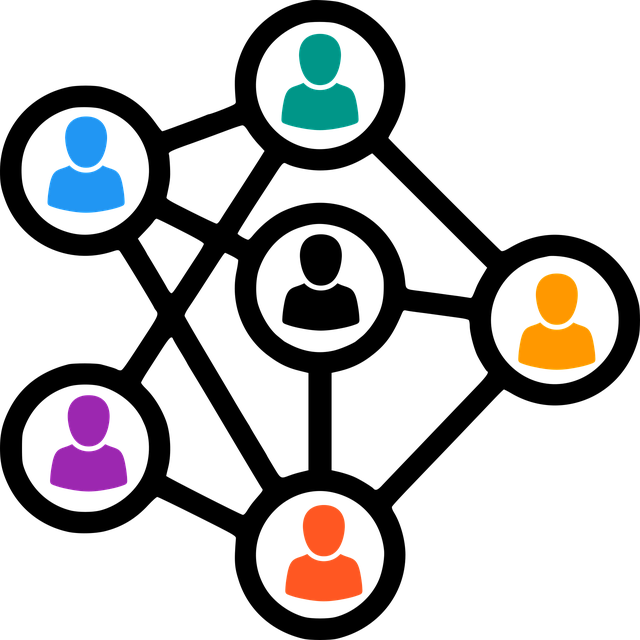
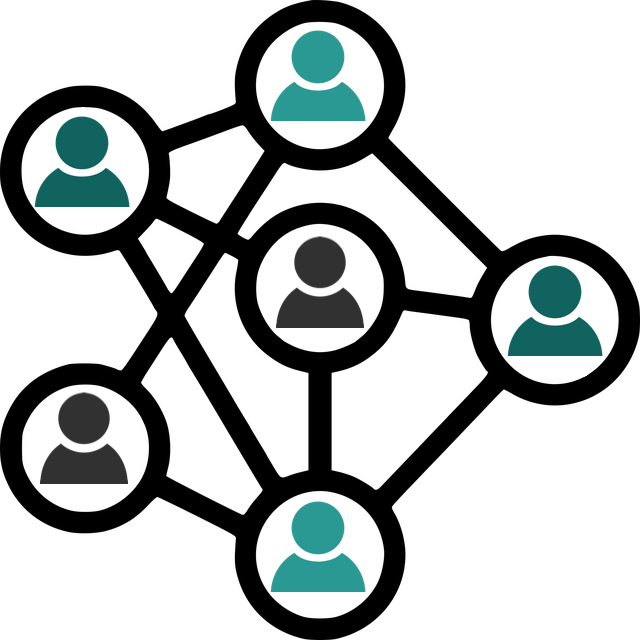
v2.01 (Some small screen optimisation, department and location graphics changed, minor bug fixes)

diff --git a/resources/js/script.js b/resources/js/script.js
@@ -341,7 +341,6 @@ function addLocation(name,departments){
         dataType: 'JSON',
         success: function(result){
             let ready = true;
-            console.log(result);
             if (result.data.length > 0){
                 $("#new-location-required-name").html("Location name already in use");
                 ready = false;
@@ -355,7 +354,6 @@ function addLocation(name,departments){
                     },
                     dataType: 'JSON',
                     success: function(result){
-                        console.log(result);
                         let id = result.data[0].id;
                         departments.forEach(dept=>{
                             updateDepartmentById(dept,null,id)
@@ -365,13 +363,16 @@ function addLocation(name,departments){
                         getAllFiltered();
                         getLocationInfo();
                         getDeptsFiltered();
-                        $("#new-location-modal").modal('hide');
-                        updateLocationModal(id);
-                        $(".updated").css("display","none");
-                        $(".info").css("display","block");
-                        $(".form").css("display","none");
-                        addCheckbox("options-departments");
-                        addLocationsCheckbox("options-locations");
+                        setTimeout(()=>{
+                            $("#new-location-modal").modal('hide');
+                            updateLocationModal(id);
+                            $(".updated").css("display","none");
+                            $(".info").css("display","block");
+                            $(".form").css("display","none");
+                            addCheckbox("options-departments");
+                            addLocationsCheckbox("options-locations");
+                        },500);
+                        
                         
                        
                     },
@@ -397,7 +398,6 @@ function addDepartment(name,locationId){
         },
         dataType: 'JSON',
         success: function(result){
-            console.log(result);
             let ready = true;
             if (result.data.length > 0){
                 $("#new-department-required-name").html("Department name already in use");
@@ -415,7 +415,7 @@ function addDepartment(name,locationId){
                     success: function(result){
                         let id = result.data[0].id;
                         data.setCurrentDepartmentId(id);
-                        getDepartmentFiltered();
+                        getDeptsFiltered();
                         $("#new-department-modal").modal('hide');
                         updateDepartmentModal(id);
                         updateDepartmentPlaceholders(id);
@@ -451,7 +451,6 @@ function addPersonnel(first,last,email,department){
         },
         dataType: 'JSON',
         success: function(result){
-            console.log("email check",result);
             if (result.data.length > 0){
                 $("#new-employee-required-email").html("Email address already in database");
                 ready = false;
@@ -493,9 +492,7 @@ function addPersonnel(first,last,email,department){
 // UPDATE entries in database
 
 function updateLocationById(id, name, departmentIds){
-    console.log(departmentIds)
     departmentIds.forEach(deptId=>{
-        console.log(deptId);
         updateDepartmentById(deptId,null,id);
     })
     $.ajax({
@@ -534,7 +531,6 @@ function updateDepartmentById(id, name=null, locationId){
         },
         dataType: 'JSON',
         success: function(result){
-            console.log(result);
             if(name){
                 updateDepartmentModal(id);
                 updateAllTables();
@@ -747,46 +743,6 @@ function updateLocationPlaceholders(name,id){
     $("#location-form-name").val(name); 
     addCheckbox("location-form-depts",id)
 }
-    function updateFormPlaceholders(object){
-        if (object instanceof Employee){
-            let employee = object;
-            $("#employee-form-name").val(employee.getFirst());
-            $("#employee-form-surname").val(employee.getLast());
-            $("#employee-form-email").val(employee.getEmail());
-            $("#employee-form-dept").val(employee.getDeptId());
-            $("#employee-form-loc").html(employee.getLocation());
-            $("#new-employee-required-email").html('');
-            $("#new-employee-required-first").html('');
-            $("#new-employee-required-last").html('');
-            $("#new-employee-required-dept").html('');
-            $("#update-employee-required-email").html('');
-            $("#update-employee-required-first").html('');
-            $("#update-employee-required-last").html('');
-            $("#update-employee-required-dept").html('');
-        } else if (object instanceof Department){
-            let department = object;
-            $("#update-department-required-location").html("");
-            $("#update-department-required-name").html("");
-            $("#department-form-name").val(department.getName());
-            $("#department-form-loc").val(department.getLocationId());
-    
-        } else if (object instanceof Location){
-            let location = object;
-            let departments = data.getDepartments();
-            let locDepts = [];
-            departments.forEach(dept => {
-                if (dept.getLocationId() == location.getId()){
-                    locDepts.push(dept);
-                }
-            });
-            $("input:checkbox").prop('checked', false);
-            locDepts.forEach(dept =>{
-                let id = "#" + dept.getId();
-                $(id).prop("checked",true);
-            })
-            $("#location-form-name").val(location.getName());
-        }   
-    }
 function addLocationsCheckbox(targetElement){
     targetElement = document.getElementById(targetElement);
     while(targetElement.hasChildNodes()){
@@ -980,10 +936,9 @@ $(".loc-body").on("click",(e)=>{
     $(".form").css("display","none");  
     let id = e.toElement.parentElement.id;
     id = id.replace("location","");
-    console.log(id);
     data.setCurrentLocationId(id);
     updateLocationModal(id);
-    addCheckbox("location-form-depts",id);
+   
 })
 $(".edit").on("click",(e)=>{
     $(".info").css("display","none");
@@ -1052,7 +1007,6 @@ $("#add-button").on("click",(e)=>{
 function search(section) {
     // Declare variables
     let tableEl;
-    console.log(section);
     switch(section){
         case "personnel":
             tableEl = "employee-table";
@@ -1144,8 +1098,6 @@ $("#delete-location").on("click",(e)=>{
     deleteLocationById(id);
 })
 $("#options-form").on("change",(e)=>{
-    console.log($("#options-departments").serializeArray());
-    console.log($("#options-locations").serializeArray());
     getAllFiltered();
 })
 $("#department-options").on("change",(e)=>{
@@ -1217,8 +1169,7 @@ function getAllFiltered(){
         let string = ' OR d.id = ' + dept.value;
         sqlQry = sqlQry + string;
     });
-    sqlQry = sqlQry + ' ORDER BY p.lastName, p.firstName, d.name, l.name'
-    console.log(sqlQry);
+    sqlQry = sqlQry + ' ORDER BY p.lastName, p.firstName, d.name, l.name';
     $.ajax({
         url: "libs/php/getFilter.php",
         type: "POST",
@@ -1241,8 +1192,7 @@ function getDeptsFiltered(){
         let string = ' OR l.id = ' + loc.value;
         sqlQry = sqlQry + string;
     });
-    sqlQry = sqlQry + ' GROUP BY d.id'
-    console.log(sqlQry);
+    sqlQry = sqlQry + ' GROUP BY d.id';
     $.ajax({
         url: "libs/php/getFilter.php",
         type: "POST",
@@ -1292,7 +1242,6 @@ $("#submit-update-location").on("click",(e)=>{
     let id = data.getCurrentLocationId();
     let formArray = $("#update-location").serializeArray();
     let name = formArray[0].value;
-    console.log(formArray);
     let ready = true;
     let newDepartments = [];
     for(let i=1 ; i< formArray.length ; i++){
@@ -1302,7 +1251,6 @@ $("#submit-update-location").on("click",(e)=>{
         $("#update-location-required-name").html("Please enter location name.");
         ready = false;
     }
-    console.log(newDepartments);
     $.ajax({
         url: "libs/php/getLocationInfoById.php",
         type: 'POST',
@@ -1311,13 +1259,11 @@ $("#submit-update-location").on("click",(e)=>{
         },
         dataType: 'JSON',
         success: function(result){
-            console.log(result);
             if (result.data.length > 0){
                 let departments = [];
                 result.data.forEach(entry=>{
                     departments.push(Number(entry.deptId));
                 })
-                console.log(departments);
                 let count = 0;
                 departments.forEach(dept=>{
                     if (!newDepartments.includes(dept)){

diff --git a/index.html b/index.html
@@ -8,7 +8,7 @@
     <link rel="preconnect" href="https://fonts.gstatic.com"> 
     <link href="https://fonts.googleapis.com/css2?family=Monda&family=Roboto+Slab:wght@100;400&family=Trochut&display=swap" rel="stylesheet">
     <link rel="preconnect" href="https://fonts.gstatic.com">
-    <link href="https://fonts.googleapis.com/css2?family=Big+Shoulders+Display&display=swap" rel="stylesheet">
+    <link href="https://fonts.googleapis.com/css2?family=Big+Shoulders+Display:wght@100;400;900&family=DM+Sans&display=swap" rel="stylesheet">
     <link rel="stylesheet" href="resources/css/sortable-theme-minimal.css">
 </head>
 <body>
@@ -34,7 +34,7 @@
         <div class="row search-bar">
             <button class="btn btn-secondary" type="button" data-toggle="modal"  data-target="" name="filter" id="filter-button"><img src="/CompanyDirectory/resources/images/filter.png" width="29px" height="auto"></button>
             <input type="text" name="search-bar"  placeholder="Search personnel" id="search-bar">
-            <button class="btn" name="add" id="add-button">+</button>
+            <button class="btn btn-secondary" name="add" id="add-button">+</button>
         </div>
         <br>
         <div class="row justify-content-center scrollable">

diff --git a/resources/css/style.css b/resources/css/style.css
@@ -1,3 +1,10 @@
+:root{
+    --bright: #66FCF1;
+    --medium: #45A29E;
+    --grey: #C5C6C7;
+    --dark: #1F2833;
+}
+
 html, body{
     height: 100%;
     background-image: url(../images/skyscraper.jpg);
@@ -32,6 +39,11 @@ html, body{
     color: white;
     font-family: 'Big Shoulders Display', cursive;
     cursor:default;
+}
+.edit{
+    position: absolute;
+    right: 1%;
+    top: 1px;
 }
 
 .selector{
@@ -87,6 +99,7 @@ html, body{
     position: absolute;
     top: 1px;
     right: 25px;  
+    color: var(--dark);
 }
 .dropdown-menu{
     width:90%;
@@ -127,6 +140,7 @@ html, body{
     border-top: 2px solid #cccccc;
     border-radius: 10px;
     background-color: #097572;
+    overflow: hidden;
 }
 .main-table tr td{
     cursor: pointer
@@ -155,15 +169,24 @@ html, body{
 .modal{
     z-index: 3001
 }
-
+.modal-body{
+    overflow: auto;
+}
 .modal h4{
     text-align: center;
     margin-left: 25%
 }
 .modal img{
-    width: 25%;
+    width: 40%;
     display: block;
-    margin: 20px auto;
+    margin: 0px auto;
+    margin-bottom: 20px;
+}
+#department-modal img{
+    width: 32%;
+}
+#employee-modal img{
+    width: 25%;
 }
 .modal .updated{
     display: none;
